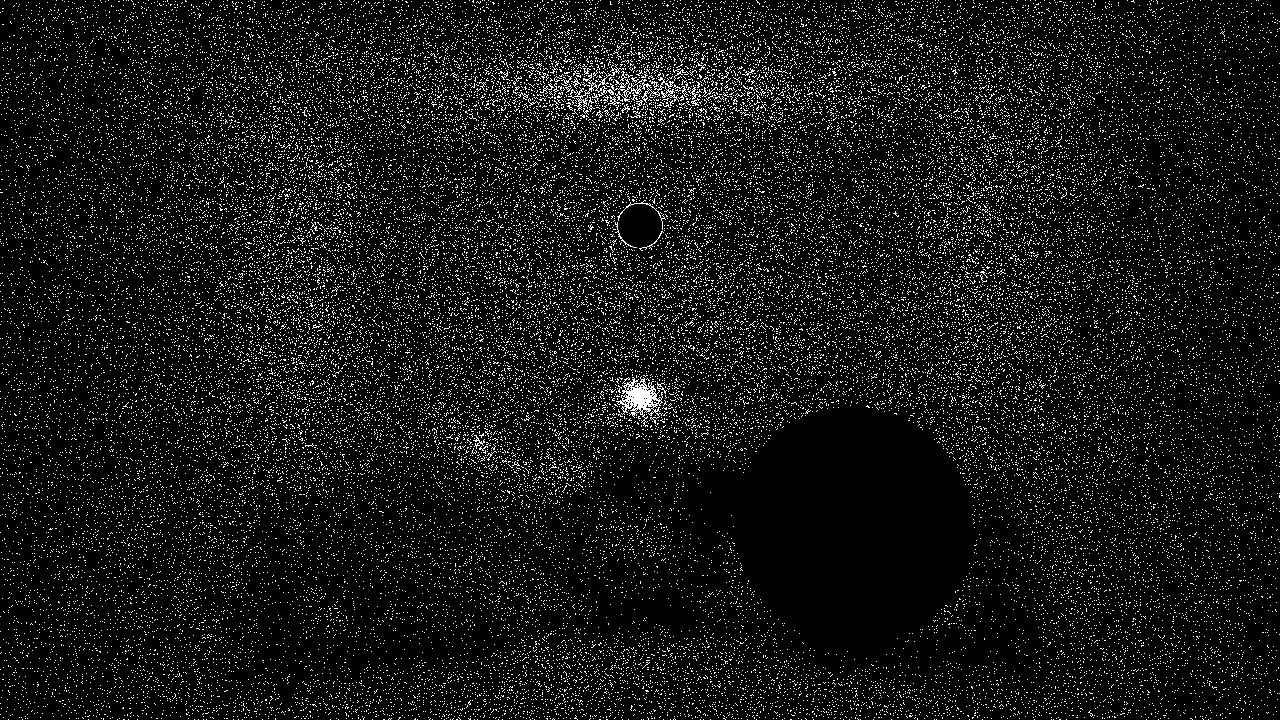
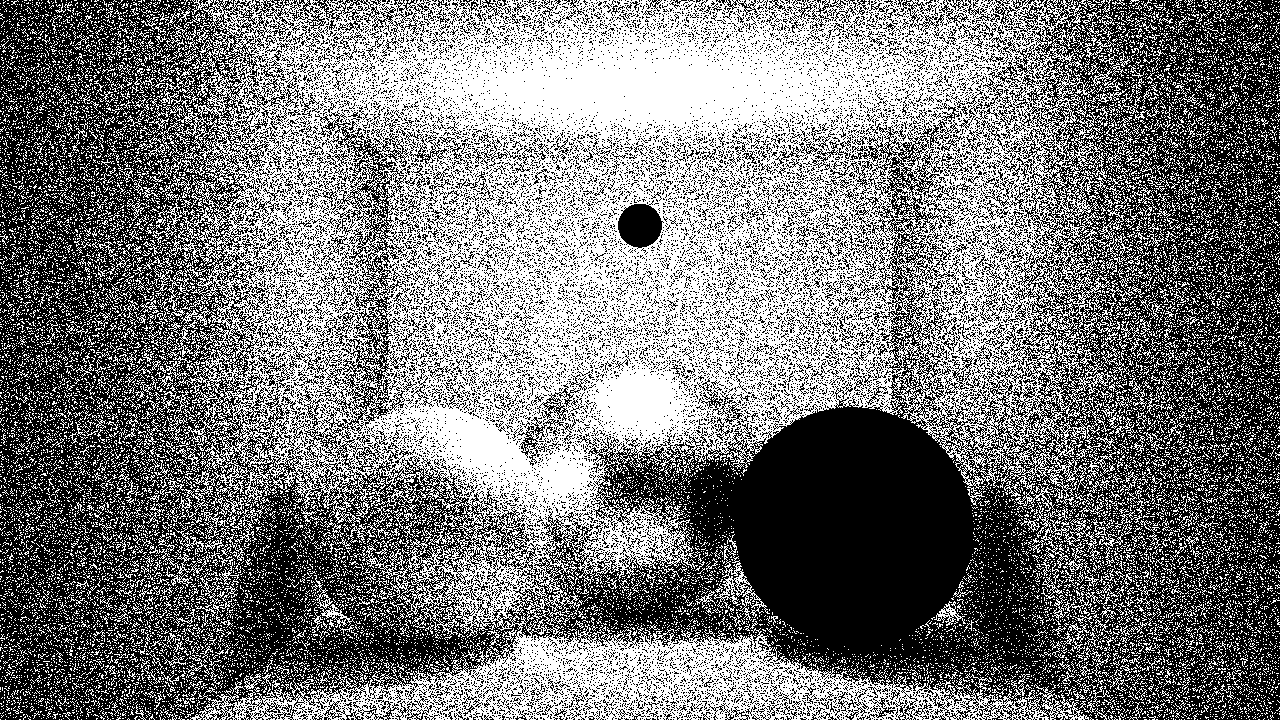
Hopefully finally incorporated glossiness into bounces

diff --git a/src/materials.h b/src/materials.h
@@ -198,6 +198,10 @@ public:
 
 	bool GenerateSample( SamplerInfo const &sInfo, Vec3f &dir, Info &si ) const override 
     {
+        const Color diffuseColor{ diffuse.GetValue() };
+        const Color specularColor{ specular.GetValue() };
+        const Color transmissiveColor{ refraction.GetValue() };
+
         float diffuseProb{ diffuse.GetValue().Gray() };
         float specularProb{ specular.GetValue().Gray() };
         float transmissiveProb{ refraction.GetValue().Gray() };
@@ -212,9 +216,12 @@ public:
         //}
 
         const float totalProb{ diffuseProb + specularProb + transmissiveProb };
-        diffuseProb /= totalProb;
-        specularProb /= totalProb;
-        transmissiveProb /= totalProb;
+        if (totalProb > 1.0f)
+        {
+            diffuseProb /= totalProb;
+            specularProb /= totalProb;
+            transmissiveProb /= totalProb;
+        }
 
         const float randomNum{ sInfo.RandomFloat() };
         //if (randomNum < diffuseProb)
@@ -236,7 +243,7 @@ public:
         //    dir = (u * x) + (v * y) + (sInfo.N() * cosTheta);
 
         //    si.prob = diffuseProb / (2.0f * Pi<float>());
-        //    si.mult = diffuse.GetValue() / Pi<float>();
+        //    si.mult = diffuseColor / Pi<float>();
 
         //    return true;
         //}
@@ -258,7 +265,7 @@ public:
 
             const float geometryTerm{ std::max(0.0f, sInfo.N().Dot(dir)) };
 
-            si.mult = diffuse.GetValue() / Pi<float>();
+            si.mult = diffuseColor / Pi<float>();
             si.prob = diffuseProb * (geometryTerm / Pi<float>());
 
             return true;
@@ -281,22 +288,49 @@ public:
             sInfo.N().GetOrthonormals(u, v);
             const Vec3f h{ (x * u) + (y * v) + (cosTheta * sInfo.N()) };
             dir = h * 2.0f * std::max(0.0f, sInfo.V().Dot(h)) - sInfo.V();
-            if (sInfo.N().Dot(dir) < 0.0f)
+
+            const float nDotDir{ std::max(0.00001f, sInfo.N().Dot(dir)) };
+            if (nDotDir < 0.0f)
                 return false;
 
             const float nDotH{ sInfo.N().Dot(h) };
-            if (nDotH < 0.0f)
-                return false;
+            const float nDotV{ std::max(0.00001f, sInfo.N().Dot(sInfo.V())) };
+            const float vDotH{ std::max(0.0f, sInfo.V().Dot(h)) };
+
+            const float G1_V{ 2.0f * nDotV / (nDotV + sqrtf(alphaSquared + (1.0f - alphaSquared) * (nDotV * nDotV))) };
+            const float G1_L{ 2.0f * nDotDir / (nDotDir + sqrtf(alphaSquared + (1.0f - alphaSquared) * (nDotDir * nDotDir))) };
+            const float G{ G1_V * G1_L };
+
+            //si.mult = fresnel * G * vDotH;
+            //si.prob = nDotV * nDotH;
 
             const float denom{ (nDotH * nDotH) * (alphaSquared - 1.0f) + 1.0f };
-            const float ggxNdf{ alphaSquared / (Pi<float>() * denom * denom) };
-            si.prob = specularProb * (ggxNdf * nDotH) / (4.0f * dir.Dot(h));
+            const float D{ alphaSquared / (Pi<float>() * denom * denom) };
+            si.prob = specularProb * (D * nDotH) / (4.0f * std::max(0.00001f, vDotH));
 
-            const float geometryTerm{ std::max(0.0f, sInfo.N().Dot(dir)) };
-            si.mult = geometryTerm < 1e-6 ? Color{ 0.0f } : specular.GetValue() / geometryTerm;
-            //si.prob = specularProb;
+            const Color fresnel{ specularColor + (Color{ 1.0f } - specularColor) * powf(1.0f - vDotH, 5.0f) };
+            si.mult = (D * fresnel * G) / (4.0f * nDotV * nDotDir);
 
             return true;
+            //si.prob = specularProb;
+
+            //const auto G1_smith = [&](float nDotX, float alpha) {
+            //    const float alpha2{ alpha * alpha };
+            //    return (2.0f * nDotX) / (nDotX + sqrtf(alpha2 + (1.0f - alpha2) * nDotX * nDotX));
+            //};
+
+            //const float nDotV{ std::max(0.00001f, sInfo.N().Dot(sInfo.V())) };
+            //const float G{ G1_smith(nDotDir, alpha) * G1_smith(nDotV, alpha) };
+
+            ////si.mult = ((ggxNdf * fresnel * G) / (4.0f * nDotDir * nDotV));
+
+            //si.mult = nDotDir < 1e-6 ? Color{ 0.0f } : specularColor / nDotDir;
+            //return true;
+        }
+        if (randomNum < diffuseProb + specularProb + transmissiveProb)
+        {
+            return true;
+            const Vec3f N{ sInfo.IsFront() ? sInfo.N() : -sInfo.N() };
         }
         //if (randomNum < diffuseProb + specularProb + transmissiveProb)
         //{

diff --git a/src/main.cpp b/src/main.cpp
@@ -252,14 +252,14 @@ Color tracePath(Ray ray)
         const float cosTheta{ normal.Dot(bounceDir * sign) };
         throughput *= (indirectLightingInfo.mult * cosTheta) / indirectLightingInfo.prob;
 
-        if (bounce > 3)
-        {
-            const float prob{ throughput.Max() };
-            if (tileThreads::rng.RandomFloat() > prob)
-                break;
+        //if (bounce > 3)
+        //{
+        //    const float prob{ throughput.Max() };
+        //    if (tileThreads::rng.RandomFloat() > prob)
+        //        break;
 
-            throughput /= prob;
-        }
+        //    throughput /= prob;
+        //}
     }
 
     return result;
@@ -268,8 +268,8 @@ Color tracePath(Ray ray)
 // Adaptive
 void threadRenderTiles()
 {
-    constexpr size_t minNumSamples{ 16 };
-    constexpr size_t maxNumSamples{ 64 };
+    constexpr size_t minNumSamples{ 516 };
+    constexpr size_t maxNumSamples{ 1024 };
 
     while (true)
     {
